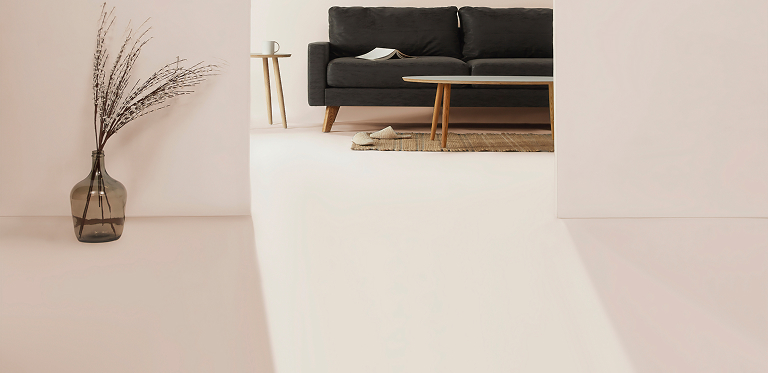
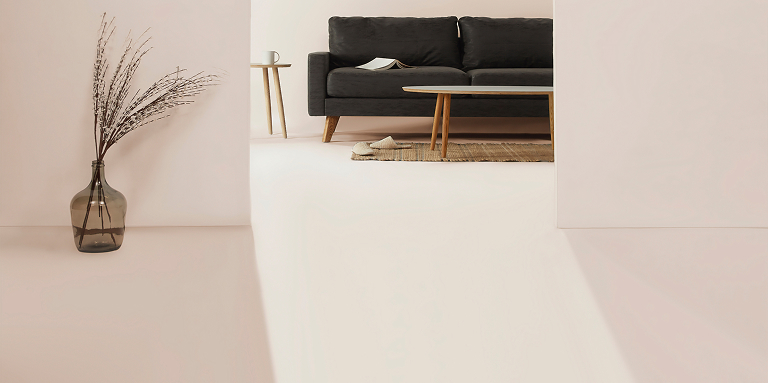
add width and height for img

Changed region(s): [[0.3125, 0.0885, 0.7188, 0.4424], [0.0938, 0.0295, 0.2812, 0.6783], [0.4062, 0.0, 0.7188, 0.0885]]

diff --git a/index.html b/index.html
@@ -33,21 +33,27 @@
       <picture class="hero__picture">
         <source 
           media="(min-width: 1024px)" 
-          srcset="./img/hero-inside.jpg 1x, ./img/hero-inside@2x.jpg 2x">
+          srcset="./img/hero-inside.jpg 1x, ./img/hero-inside@2x.jpg 2x"
+          width="1440"
+          height="630">
         <source 
           media="(min-width: 768px)" 
-          srcset="./img/tablet/hero-inside-tablet.jpg 1x, ./img/tablet/hero-inside-tablet@2x.jpg 2x">
+          srcset="./img/tablet/hero-inside-tablet.jpg 1x, ./img/tablet/hero-inside-tablet@2x.jpg 2x"
+          width="768"
+          height="382">
         <img class="hero__image" 
           src="./img/mobile/hero-inside-mobile.jpg" 
-          srcset="./img/mobile/hero-inside-mobile@2x.jpg 2x, ./img/mobile/hero-inside-mobile@3x.jpg 3x" 
-          alt="Интерьер комнаты">
+          srcset="./img/mobile/hero-inside-mobile@2x.jpg 2x, ./img/mobile/hero-inside-mobile@3x.jpg 3x"
+          width="450"
+          height="382"
+          alt="Indoors interior">
       </picture>
     </section>
 
     <section class="biography" id="biography">
       <h2 class="biography__section-title">Biography</h2>
       <article class="biography__article">
-        <h3 class="biography__article-title">Katya Mills</h3>
+        <h3 class="biography__name">Katya Mills</h3>
         <p class="biography__job">Art Director</p>
         <ul class="biography__list">
           <li class="biography__item">Scenography</li>
@@ -60,14 +66,20 @@
       <picture class="biography__picture">
         <source 
           media="(min-width: 1024px)" 
-          srcset="./img/biography-katya-mills.jpg 1x, ./img/biography-katya-mills@2x.jpg 2x">
+          srcset="./img/biography-katya-mills.jpg 1x, ./img/biography-katya-mills@2x.jpg 2x"
+          width="571"
+          height="840">
         <source 
           media="(min-width: 768px)" 
-          srcset="./img/tablet/biography-katya-mills-tablet.jpg 1x, ./img/tablet/biography-katya-mills-tablet@2x.jpg 2x">
+          srcset="./img/tablet/biography-katya-mills-tablet.jpg 1x, ./img/tablet/biography-katya-mills-tablet@2x.jpg 2x"
+          width="768"
+          height="400">
         <img class="biography__image" 
           src="./img/mobile/biography-katya-mills-mobile.jpg" 
           srcset="./img/mobile/biography-katya-mills-mobile@2x.jpg 2x, ./img/mobile/biography-katya-mills-mobile@3x.jpg 3x" 
-          alt="Фото автора">
+          width="450"
+          height="400"
+          alt="Katya Mills photo">
       </picture>
     </section>
 
@@ -78,14 +90,20 @@
           <picture class="designers__card-picture">
             <source 
               media="(min-width: 1024px)" 
-              srcset="./img/designers-cap.jpg 1x, ./img/designers-cap@2x.jpg 2x">
+              srcset="./img/designers-cap.jpg 1x, ./img/designers-cap@2x.jpg 2x"
+              width="336"
+              height="438" >
             <source 
               media="(min-width: 768px)" 
-              srcset="./img/tablet/designers-cap-tablet.jpg 1x, ./img/tablet/designers-cap-tablet@2x.jpg 2x">
+              srcset="./img/tablet/designers-cap-tablet.jpg 1x, ./img/tablet/designers-cap-tablet@2x.jpg 2x"
+              width="310"
+              height="438" >
             <img class="designers__image" 
               src="./img/tablet/designers-cap-tablet.jpg" 
-              srcset="./img/tablet/designers-cap-tablet@2x.jpg 2x, ./img/mobile/designers-cap-mobile@3x.jpg 3x" 
-              alt="Девушка в шапке">
+              srcset="./img/tablet/designers-cap-tablet@2x.jpg 2x, ./img/mobile/designers-cap-mobile@3x.jpg 3x"
+              width="310"
+              height="438" 
+              alt="Girl in cap">
           </picture>
           <div class="designers__card-content">
             <h3 class="designers__card-name">Jess Wonder</h3>
@@ -104,14 +122,20 @@
           <picture class="designers__card-picture">
             <source 
               media="(min-width: 1024px)" 
-              srcset="./img/designers-bag.jpg 1x, ./img/designers-bag@2x.jpg 2x">
+              srcset="./img/designers-bag.jpg 1x, ./img/designers-bag@2x.jpg 2x"
+              width="336"
+              height="438" >
             <source 
               media="(min-width: 768px)" 
-              srcset="./img/tablet/designers-bag-tablet.jpg 1x, ./img/tablet/designers-bag-tablet@2x.jpg 2x">
+              srcset="./img/tablet/designers-bag-tablet.jpg 1x, ./img/tablet/designers-bag-tablet@2x.jpg 2x"
+              width="310"
+              height="438" >
             <img class="designers__image" 
               src="./img/tablet/designers-bag-tablet.jpg" 
-              srcset="./img/tablet/designers-bag-tablet@2x.jpg 2x, ./img/mobile/designers-bag-mobile@3x.jpg 3x" 
-              alt="Барсетка в руках">
+              srcset="./img/tablet/designers-bag-tablet@2x.jpg 2x, ./img/mobile/designers-bag-mobile@3x.jpg 3x"
+              width="310"
+              height="438"  
+              alt="Bag in hands">
           </picture>
           <div class="designers__card-content">
             <h3 class="designers__card-name">Kameron Clein</h3>
@@ -130,14 +154,20 @@
           <picture class="designers__card-picture">
             <source 
               media="(min-width: 1024px)" 
-              srcset="./img/designers-coffee.jpg 1x, ./img/designers-coffee@2x.jpg 2x">
+              srcset="./img/designers-coffee.jpg 1x, ./img/designers-coffee@2x.jpg 2x"
+              width="336"
+              height="438" >
             <source 
               media="(min-width: 768px)" 
-              srcset="./img/tablet/designers-coffee-tablet.jpg 1x, ./img/tablet/designers-coffee-tablet@2x.jpg 2x">
+              srcset="./img/tablet/designers-coffee-tablet.jpg 1x, ./img/tablet/designers-coffee-tablet@2x.jpg 2x"
+              width="310"
+              height="438" >
             <img class="designers__image" 
               src="./img/tablet/designers-coffee-tablet.jpg" 
               srcset="./img/tablet/designers-coffee-tablet@2x.jpg 2x, ./img/mobile/designers-coffee-mobile@3x.jpg 3x" 
-              alt="Ежедневник и кофе">
+              width="310"
+              height="438" 
+              alt="Planner and coffee">
           </picture>
           <div class="designers__card-content">
             <h3 class="designers__card-name">Louisse Red</h3>
@@ -175,21 +205,29 @@
           <img class="testimonials__image" 
             src="./img/testimonials-kitchen.jpg" 
             srcset="./img/testimonials-kitchen@2x.jpg 2x" 
-            alt="Барная стойка">
+            width="451"
+            height="760"
+            alt="Bar counter">
         </picture>
       <div class="testimonials__content">  
         <blockquote class="testimonials__quote">“I just really want to do good work and work with some great people, people who challenge me.”</blockquote>
         <picture class="testimonials__picture">
           <source 
             media="(min-width: 1024px)" 
-            srcset="./img/testimonials-bag.jpg 1x, ./img/testimonials-bag@2x.jpg 2x">
+            srcset="./img/testimonials-bag.jpg 1x, ./img/testimonials-bag@2x.jpg 2x"
+            width="221"
+            height="333">
           <source 
             media="(min-width: 768px)" 
-            srcset="./img/tablet/testimonials-bag-tablet.jpg 1x, ./img/tablet/testimonials-bag-tablet@2x.jpg 2x">
+            srcset="./img/tablet/testimonials-bag-tablet.jpg 1x, ./img/tablet/testimonials-bag-tablet@2x.jpg 2x"
+            width="336"
+            height="330">
           <img class="testimonials__image" 
             src="./img/mobile/testimonials-bag-mobile.jpg" 
             srcset="./img/mobile/testimonials-bag-mobile@2x.jpg 2x, ./img/mobile/testimonials-bag-mobile@3x.jpg 3x" 
-            alt="Сетчатая сумка">
+            width="414"
+            height="330"
+            alt="Mesh bag">
         </picture>
       </div>
     </section>
@@ -200,26 +238,38 @@
         <picture class="strength__picture">
           <source 
             media="(min-width: 1024px)" 
-            srcset="./img/strength-table.jpg 1x, ./img/strength-table@2x.jpg 2x">
+            srcset="./img/strength-table.jpg 1x, ./img/strength-table@2x.jpg 2x"
+            width="335"
+            height="554">
           <source 
             media="(min-width: 768px)" 
-            srcset="./img/tablet/strength-table-tablet.jpg 1x, ./img/tablet/strength-table-tablet@2x.jpg 2x">
+            srcset="./img/tablet/strength-table-tablet.jpg 1x, ./img/tablet/strength-table-tablet@2x.jpg 2x"
+            width="310"
+            height="450">
           <img class="strength__image" 
             src="./img/tablet/strength-table-tablet.jpg" 
-            srcset="./img/tablet/strength-table-tablet@2x.jpg 2x, ./img/mobile/strength-table-mobile@3x.jpg 3x" 
-            alt="Стол с ноутбуком">
+            srcset="./img/tablet/strength-table-tablet@2x.jpg 2x, ./img/mobile/strength-table-mobile@3x.jpg 3x"
+            width="310"
+            height="450" 
+            alt="Desk with a laptop">
         </picture>
         <picture class="strength__picture">
           <source 
             media="(min-width: 1024px)" 
-            srcset="./img/strength-tv.jpg 1x, ./img/strength-tv@2x.jpg 2x">
+            srcset="./img/strength-tv.jpg 1x, ./img/strength-tv@2x.jpg 2x"
+            width="335"
+            height="554">
           <source 
             media="(min-width: 768px)" 
-            srcset="./img/tablet/strength-tv-tablet.jpg 1x, ./img/tablet/strength-tv-tablet@2x.jpg 2x">
+            srcset="./img/tablet/strength-tv-tablet.jpg 1x, ./img/tablet/strength-tv-tablet@2x.jpg 2x"
+            width="310"
+            height="450">
           <img class="strength__image" 
             src="./img/tablet/strength-tv-tablet.jpg" 
-            srcset="./img/tablet/strength-tv-tablet@2x.jpg 2x, ./img/mobile/strength-tv-mobile@3x.jpg 3x" 
-            alt="Телевизор в гостиной">
+            srcset="./img/tablet/strength-tv-tablet@2x.jpg 2x, ./img/mobile/strength-tv-mobile@3x.jpg 3x"
+            width="310"
+            height="450" 
+            alt="TV in the living room">
         </picture>
         <div class="strength__content">
           <h3 class="strength__content-title">Strength</h3>
@@ -239,8 +289,10 @@
         <picture class="strength__picture">
           <img class="strength__image" 
             src="./img/strength-kitchen.jpg" 
-            srcset="./img/strength-kitchen@2x.jpg 2x" 
-            alt="Барная стойка">
+            srcset="./img/strength-kitchen@2x.jpg 2x"
+            width="335"
+            height="554"  
+            alt="Bar counter">
         </picture>
       </div>
     </section>    
